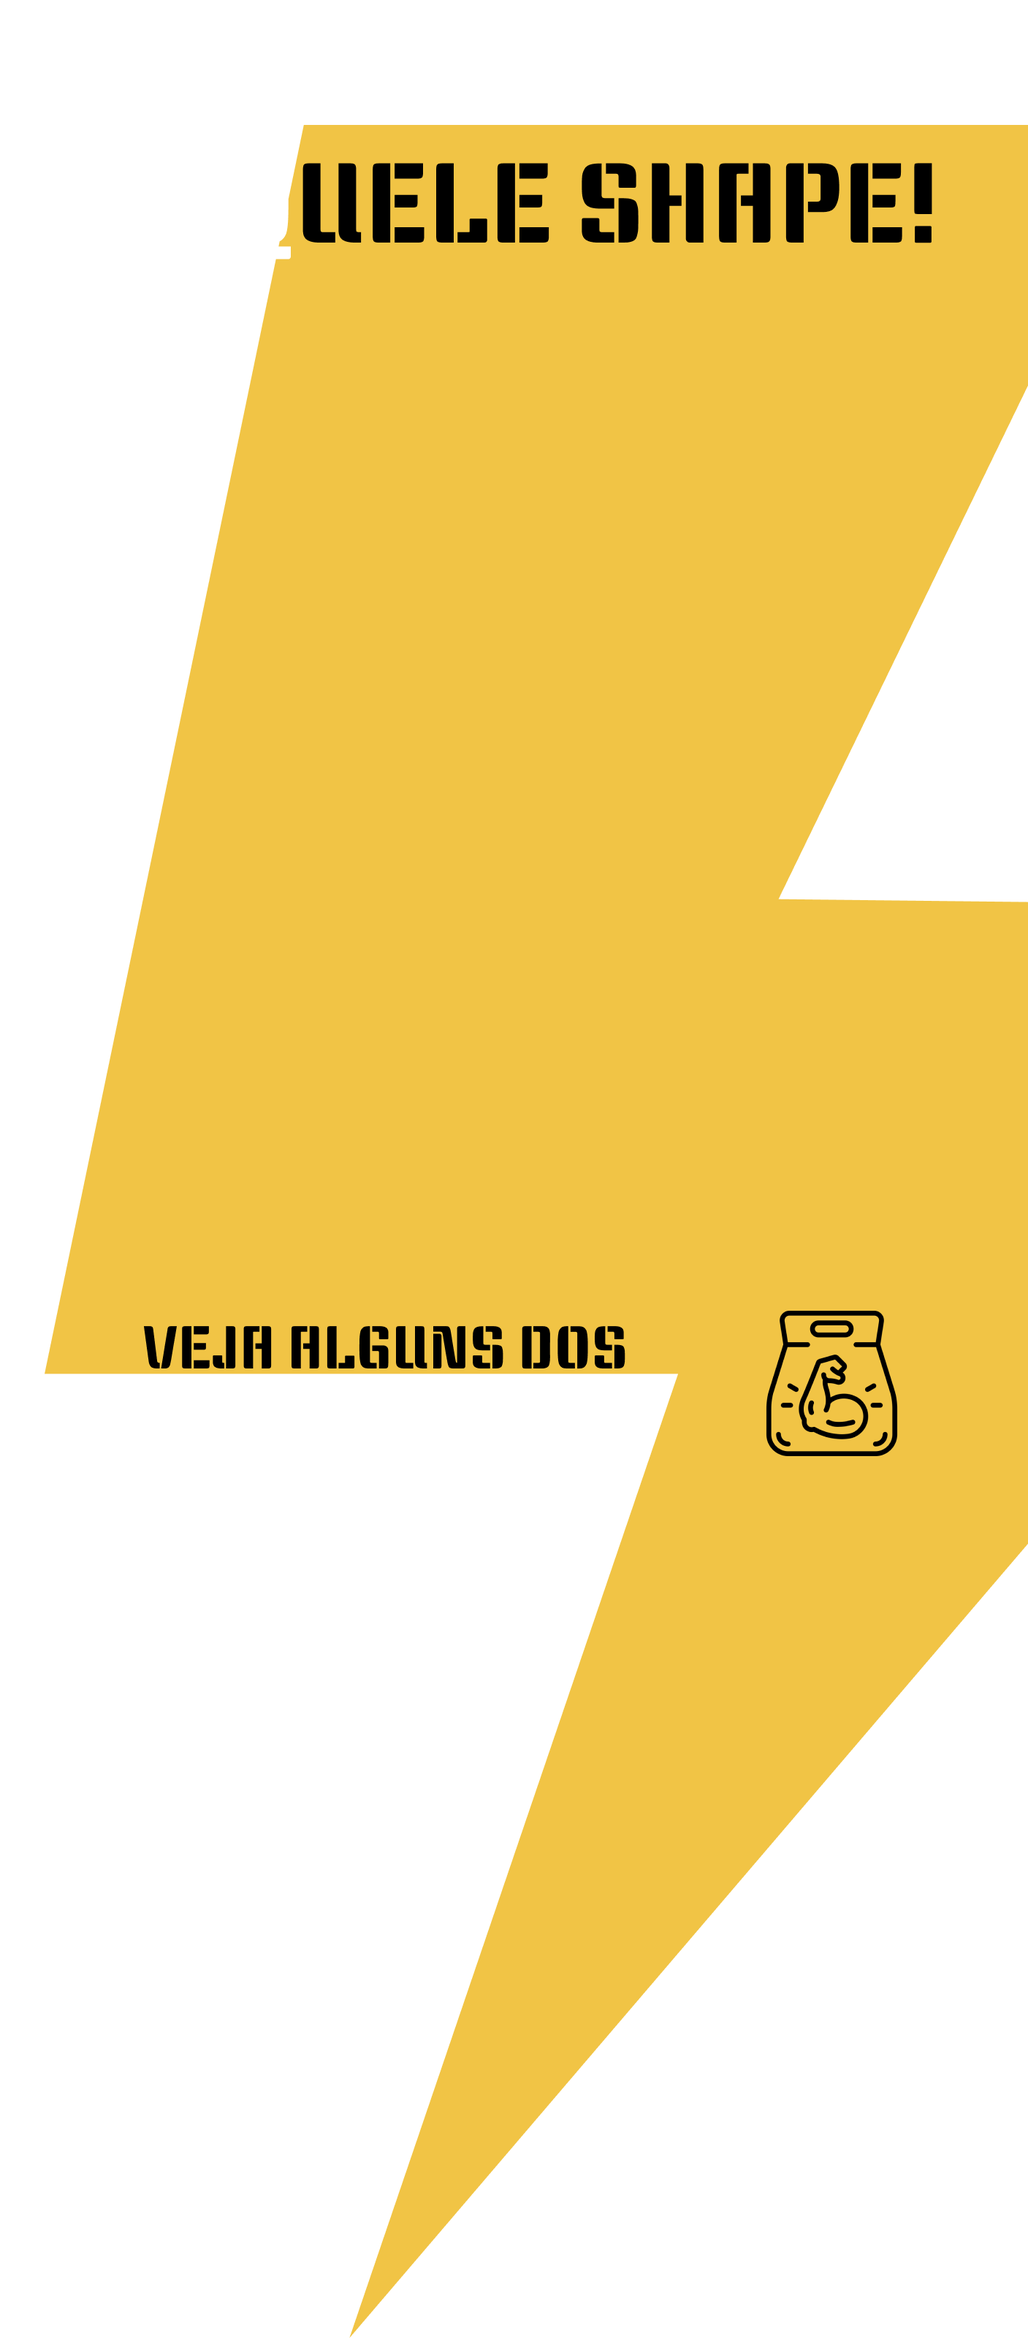
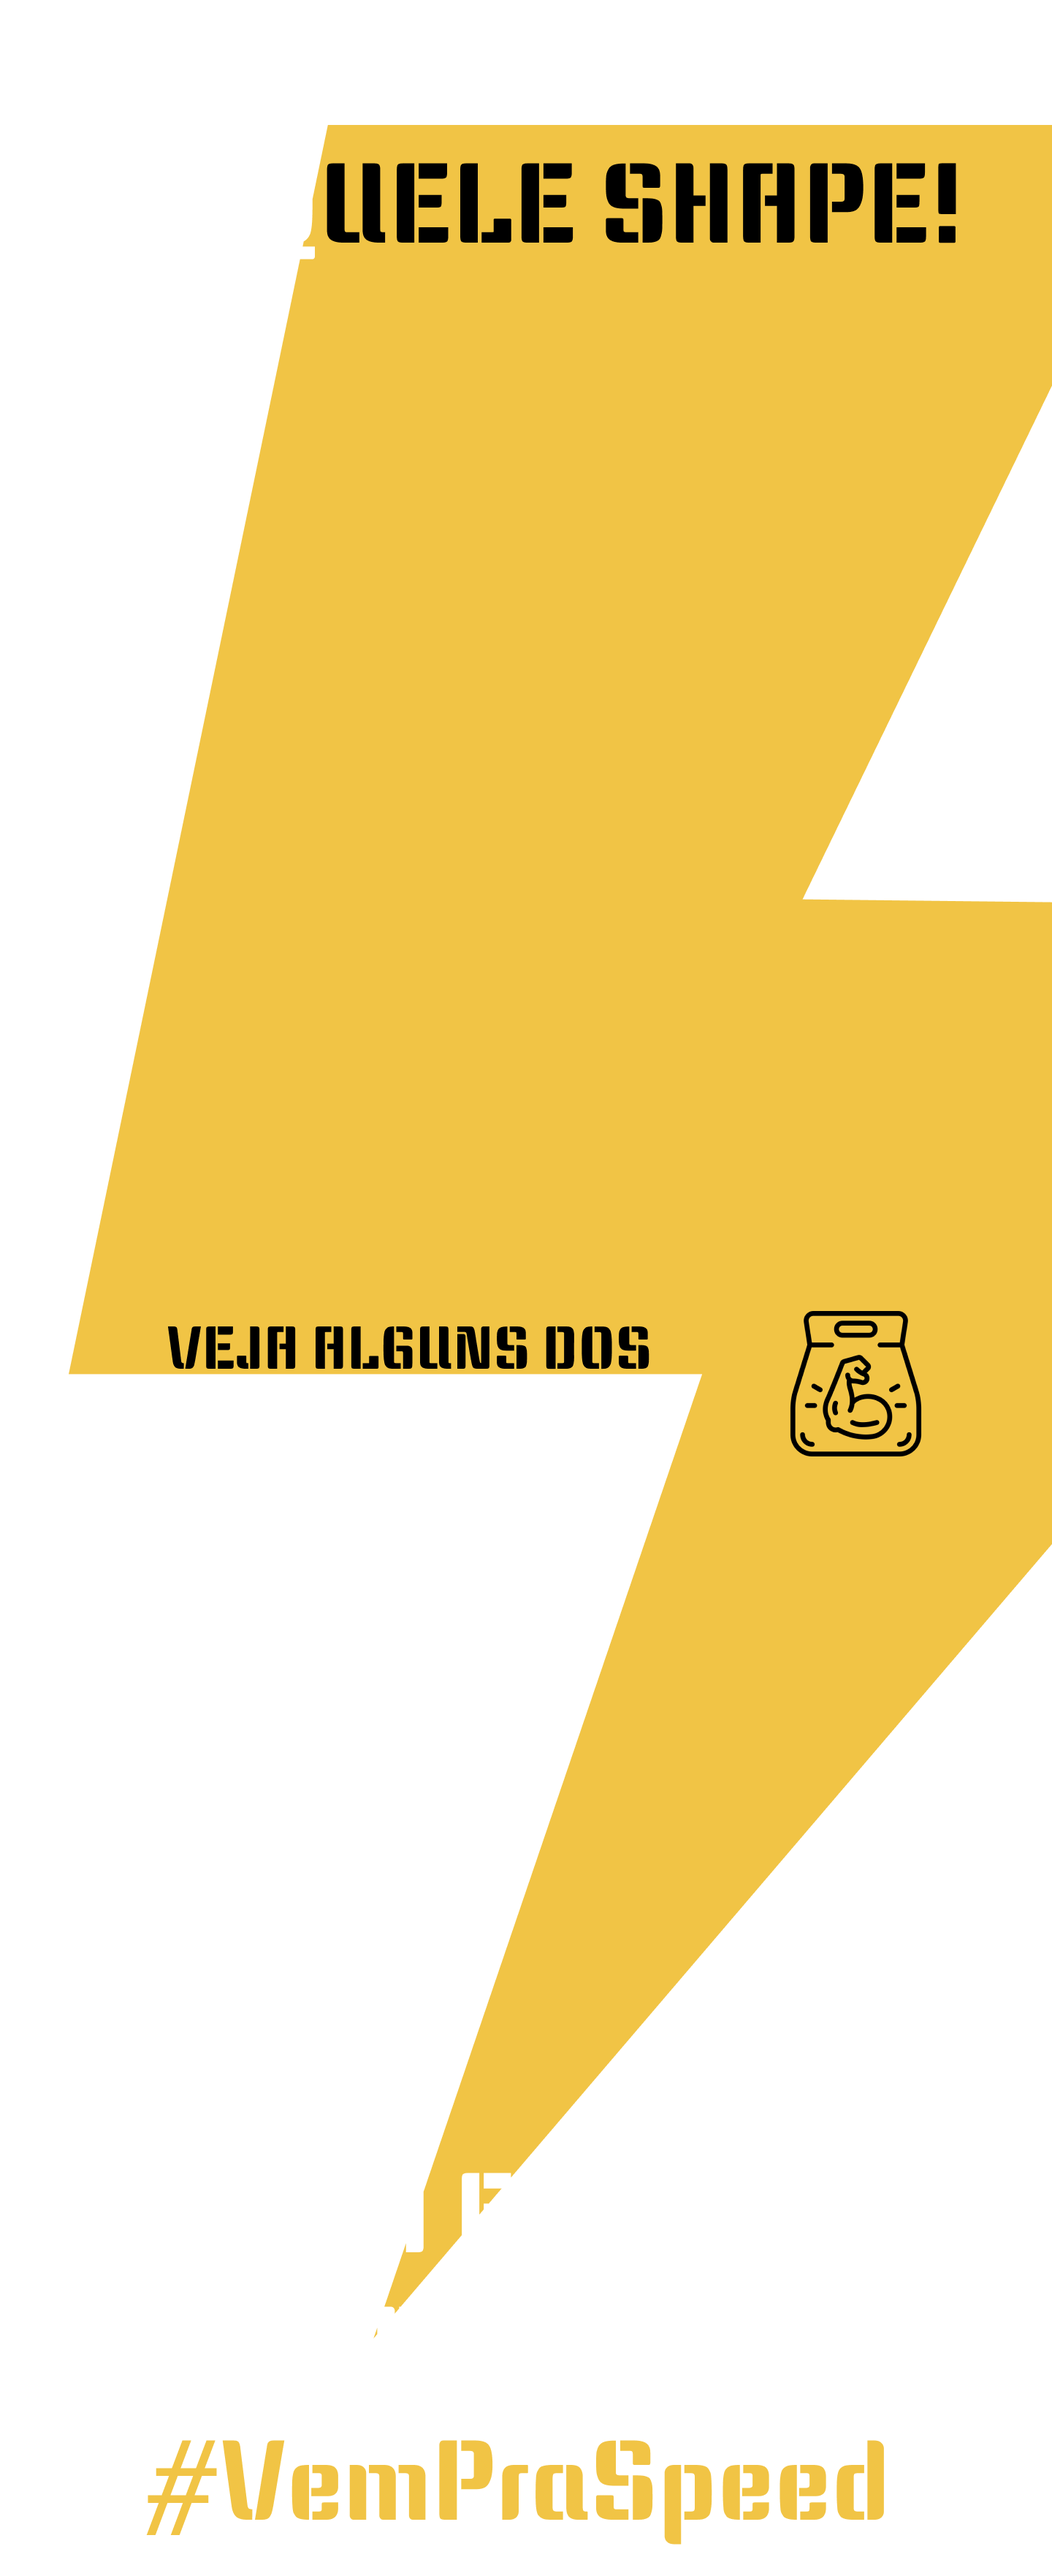
Adicionado o texto na parte da loja

diff --git a/SpeedFormAcademias/wwwroot/css/site.css b/SpeedFormAcademias/wwwroot/css/site.css
@@ -73,6 +73,13 @@ nav {
   margin-top: 80%;
 }
 
+.textoloja{
+  position: absolute;
+  left: 30%;
+  margin-top: 115%;
+}
+
+
 .videoinicio {
   position: absolute;
   z-index: -1;
